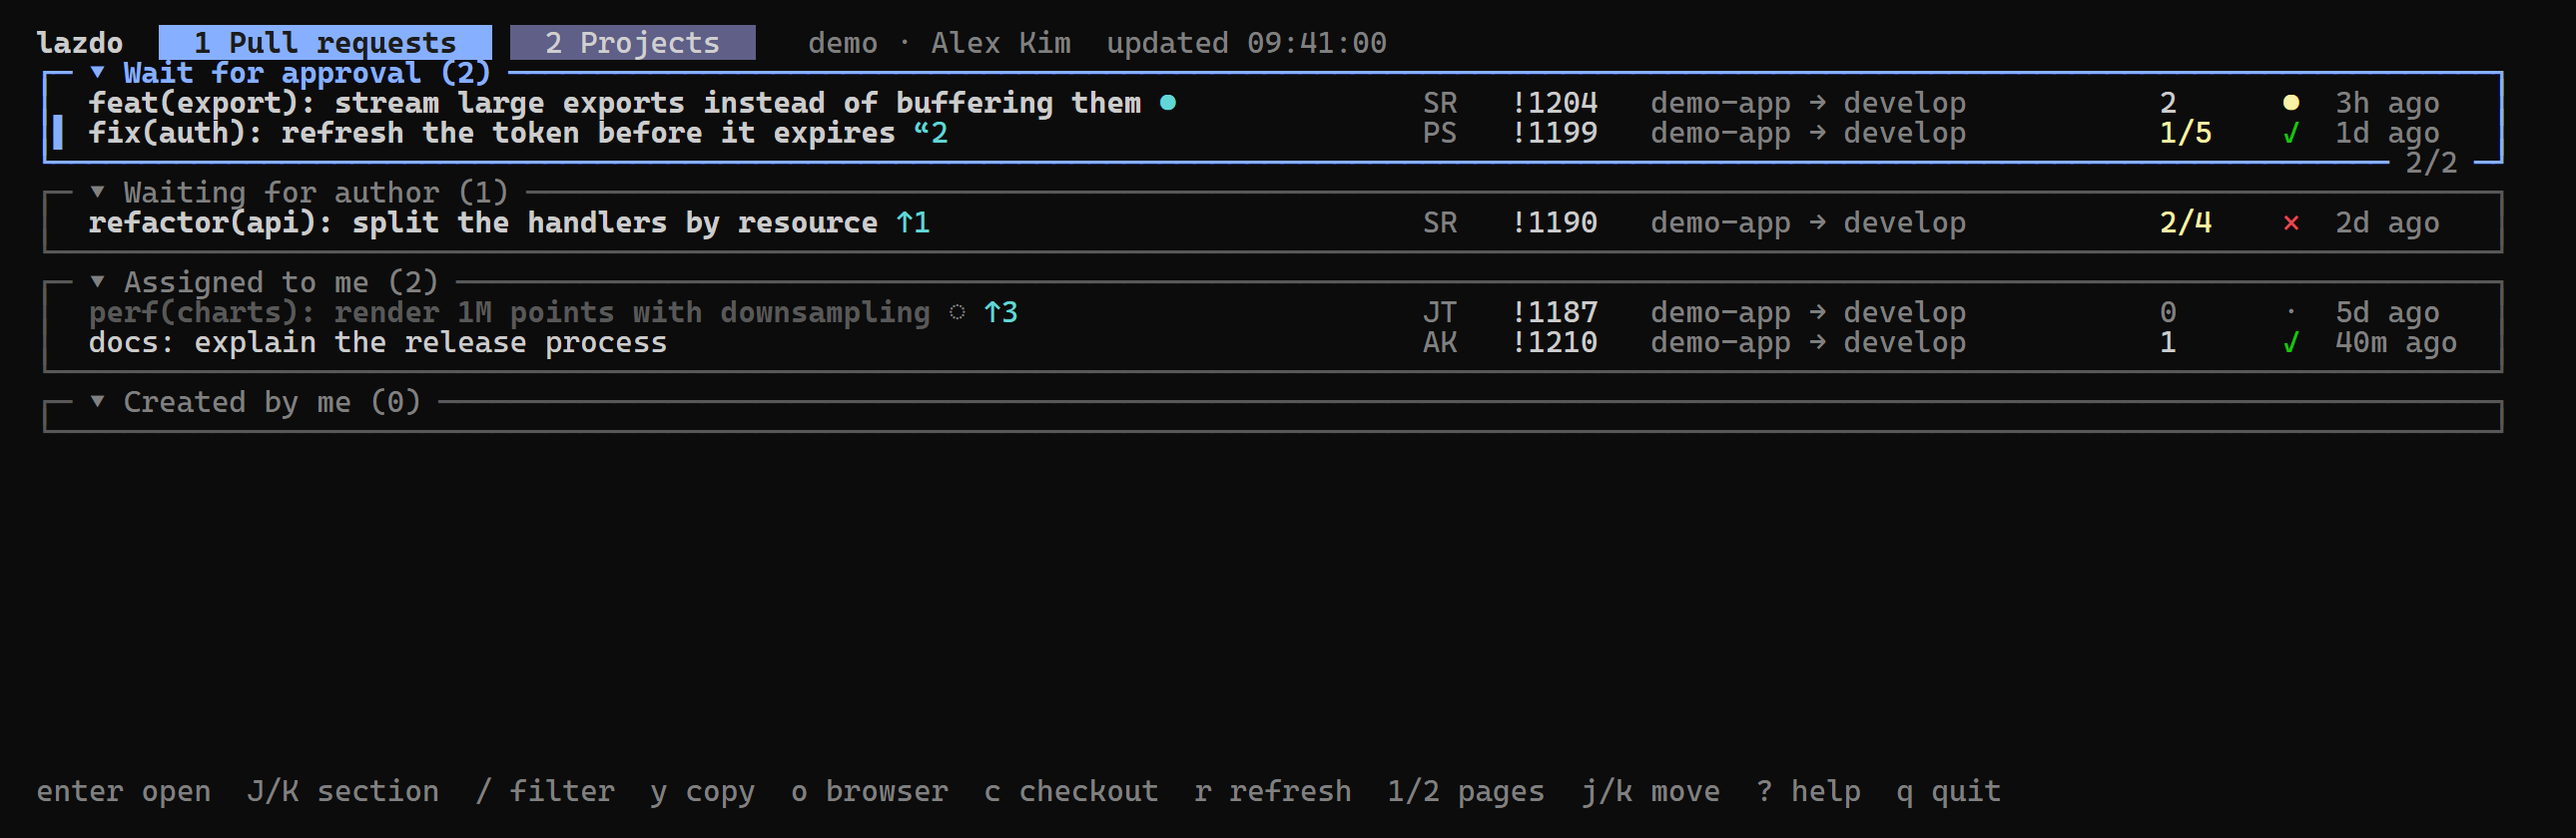
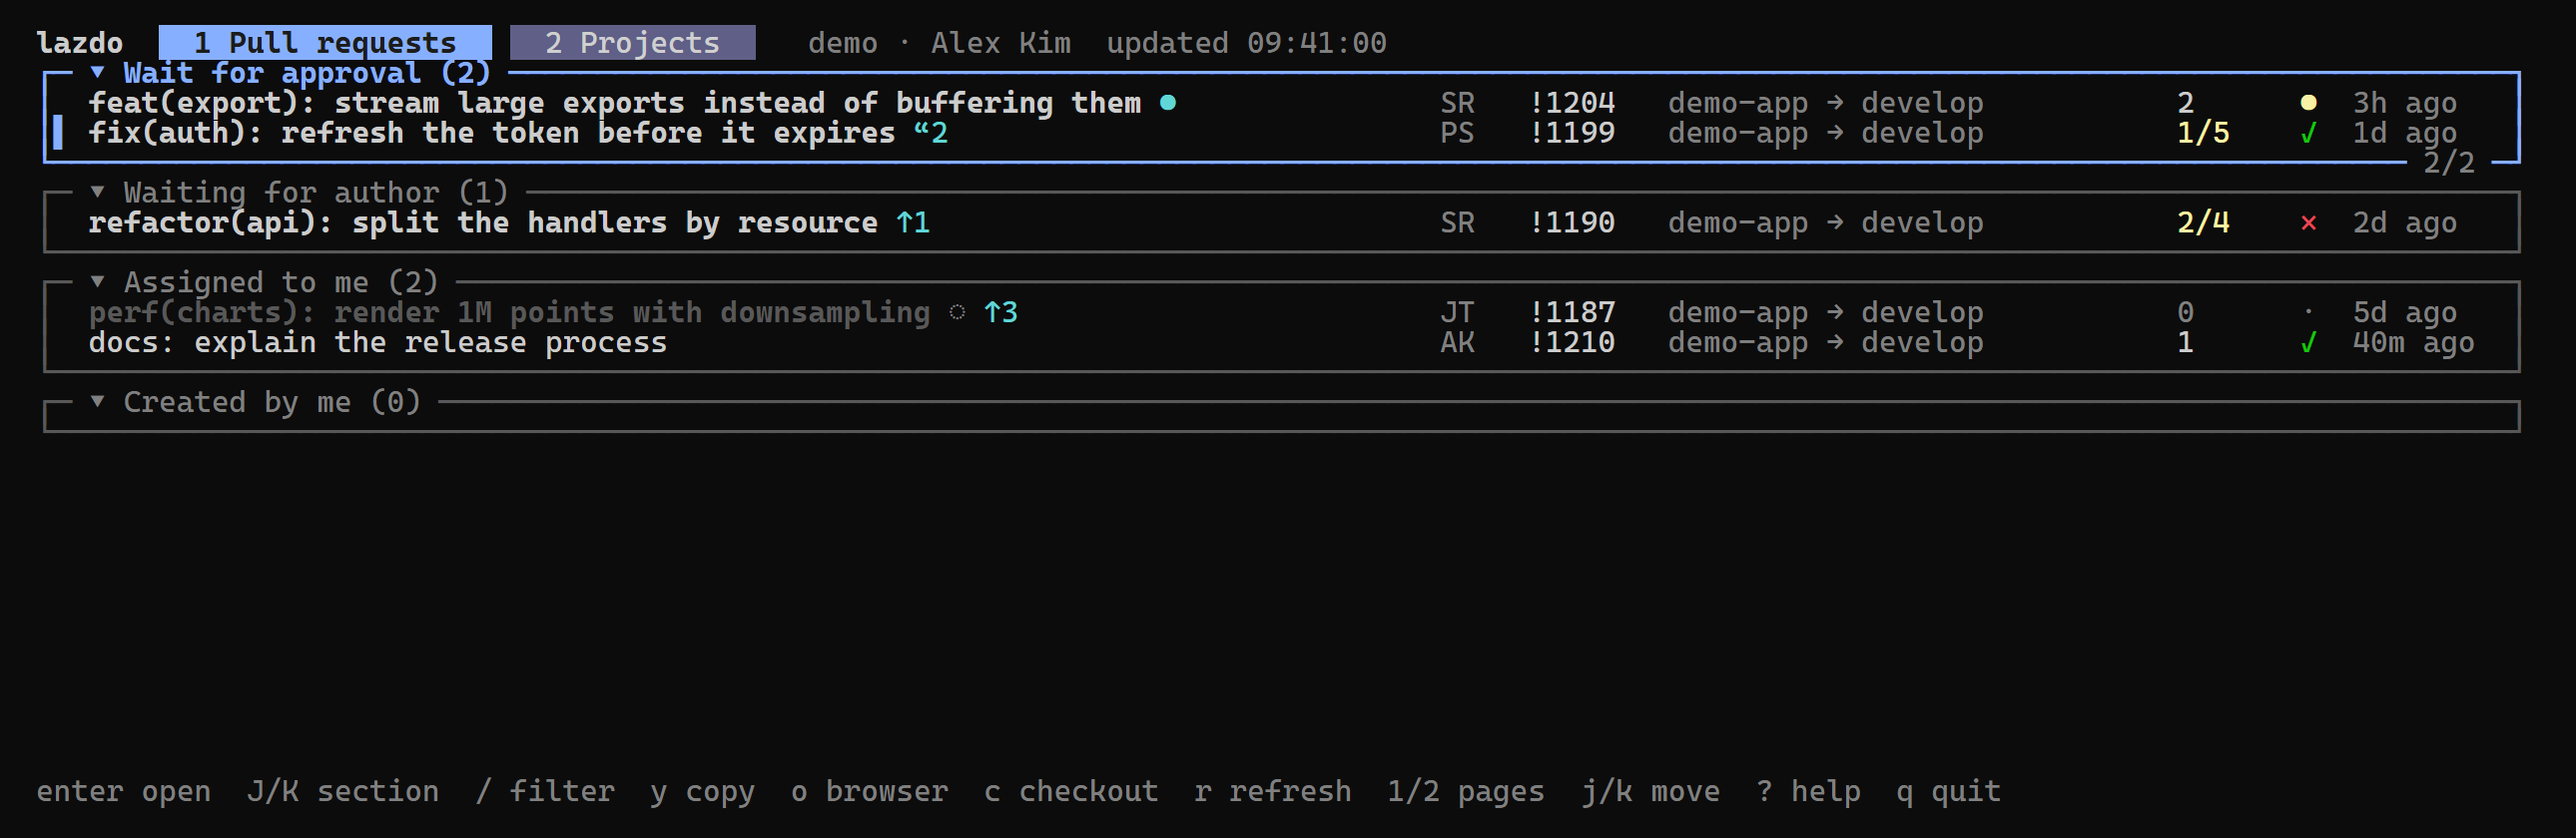
fix(ui): Pull requests sections reach the right edge

diff --git a/internal/ui/view.go b/internal/ui/view.go
@@ -232,7 +232,7 @@ func (m Model) dashboardLine(rows []row, l dashLine, cursor, focused bool) strin
 	if focused {
 		edge, title = styleAccent, styleCursor
 	}
-	inner := max(1, m.width-3)
+	inner := max(1, m.width-2)
 	switch {
 	case l.bottom:
 		pos := ""
@@ -300,9 +300,8 @@ func (m Model) renderPR(pr *ado.PullRequest) string {
 	}
 	right := strings.Join(shown, " ")
 
-	// 2 frame + 1 cursor + 1 indent + 1 gap before right + 1 spare so the
-	// line never wraps.
-	titleWidth := m.width - 6 - ansi.StringWidth(right) - ansi.StringWidth(badgeText)
+	// 2 frame + 1 cursor + 1 indent + 1 gap before right.
+	titleWidth := m.width - 5 - ansi.StringWidth(right) - ansi.StringWidth(badgeText)
 	if badgeText != "" {
 		titleWidth--
 	}
